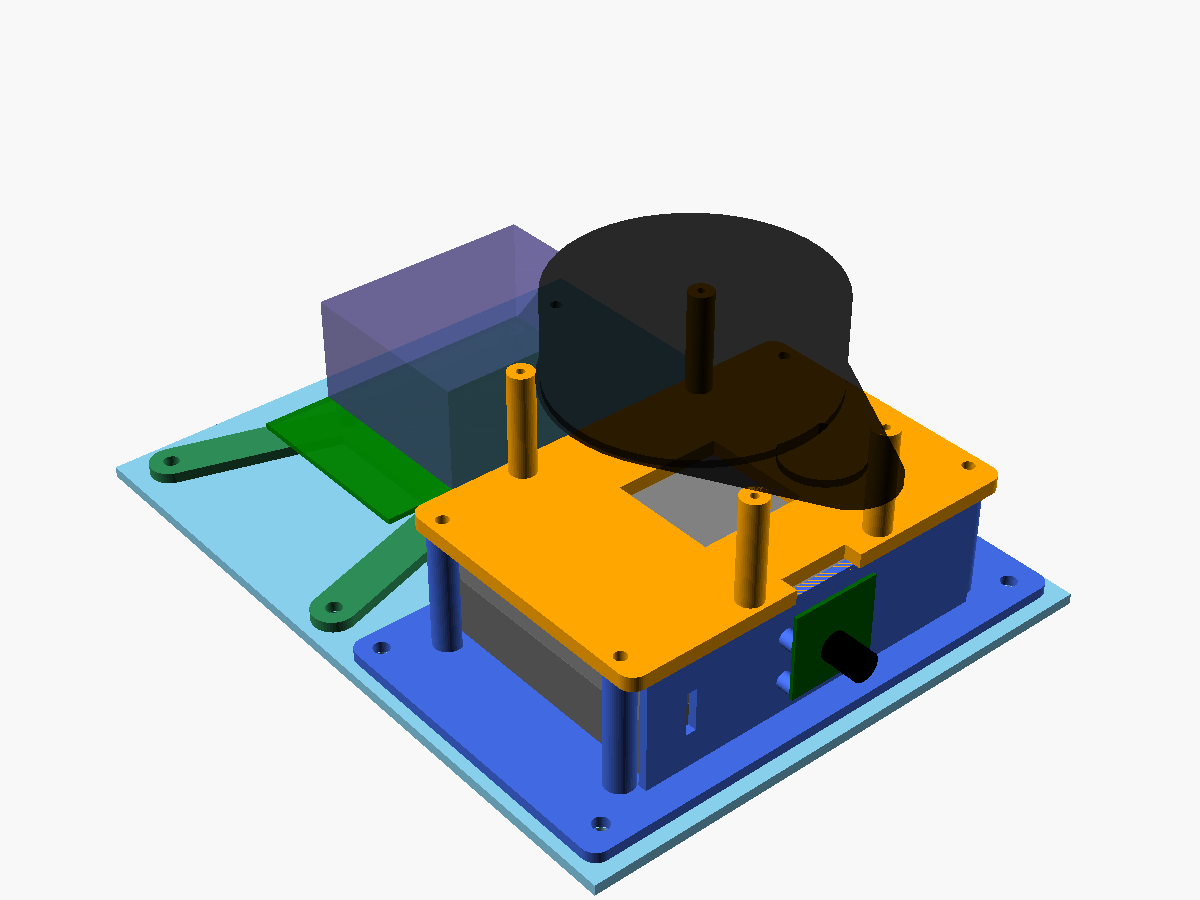
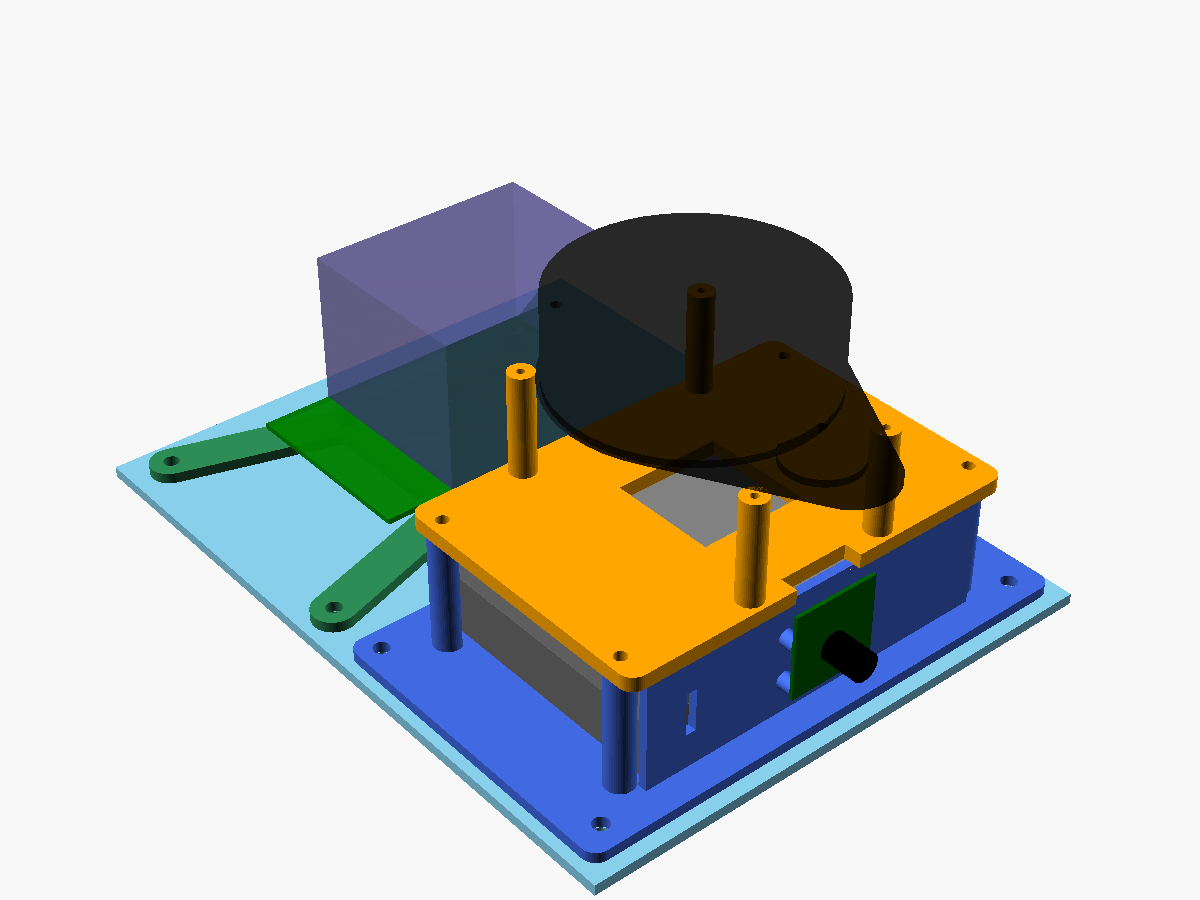
ラズパイ 3 段（45 mm）の高さを反映し、横から見た図を追加

Changed region(s): [[0.2467, 0.1867, 0.4933, 0.3422], [0.37, 0.3422, 0.4625, 0.4356]]

diff --git a/hardware/3d/battery_lidar_mount/README.md b/hardware/3d/battery_lidar_mount/README.md
@@ -10,7 +10,7 @@
 | `box.stl` | バッテリー箱（フランジを下にして印刷、サポート不要） |
 | `lid.stl` | ふた + LiDAR 台（板を下にして印刷、サポート不要） |
 | `pi_base.stl` | ラズパイ台（板を下にして印刷、サポート不要） |
-| `assembly.png` / `top.png` | 組み立てイメージ / 真上から見た配置 |
+| `assembly.png` / `top.png` / `side.png` | 組み立てイメージ / 真上 / 横から見た配置 |
 
 ## 主な寸法
 
@@ -19,6 +19,7 @@
 - LiDAR 取付柱: 高さ 28 mm、M2.5 タッピング下穴 Ø2.2。穴位置はデータシート Figure 5-2（ヘッド側 56 mm 間隔、モーター側 40 mm 間隔）
 - LiDAR 取付面の高さ: 天板上面から 67.4 mm。モーター側の先端は天板前端から約 5 mm はみ出す
 - カメラ（Camera Module 3）: 箱の前面中央に M2 取付ボス 4 個（21 x 12.5 mm、長さ 4 mm、下穴 Ø1.8）。ケーブルを上に出すため上下逆に付ける
+- ラズパイ 3 段（Pi 5 + AI HAT+ + Motor HAT、実測 45 mm）: 台のボスで最大 9 mm 高くなっても上端は約 54 mm。LiDAR 取付面（67.4 mm）より低く、LiDAR ヘッドとは前後に約 30 mm 離れる
 - ラズパイ台: Pi 5 の穴（58 x 49 mm）に高さ 6 mm のボス（M2.5 下穴 Ø2.2）。天板の後ろ側 4 穴（四隅 2 個 + 後端から 90 mm の 2 個）に 4 本の腕で留める。USB / LAN は右（+X）、GPIO は前向き
 
 ## 組み立て
